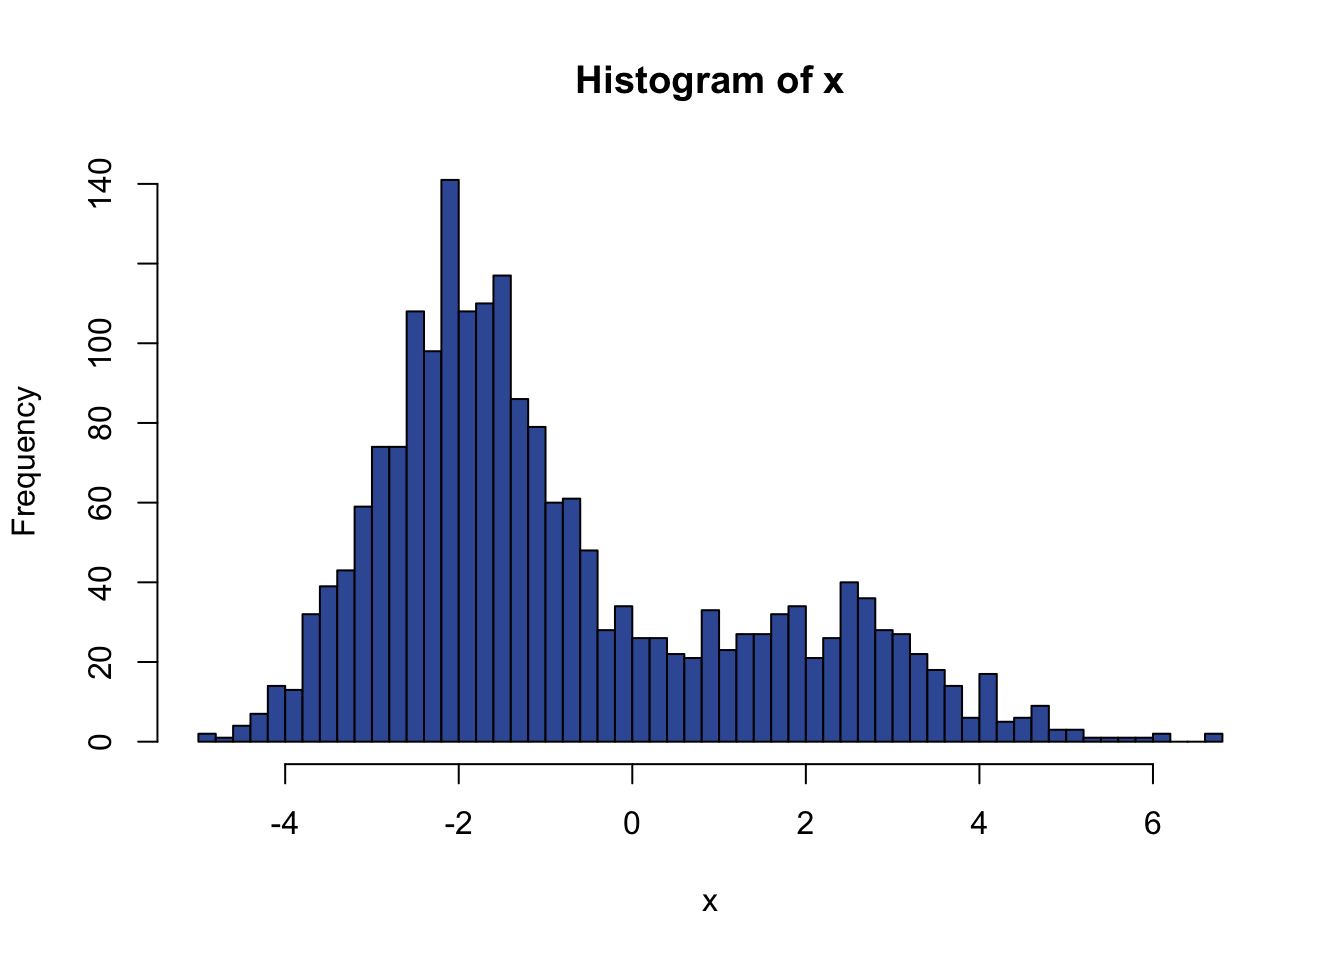
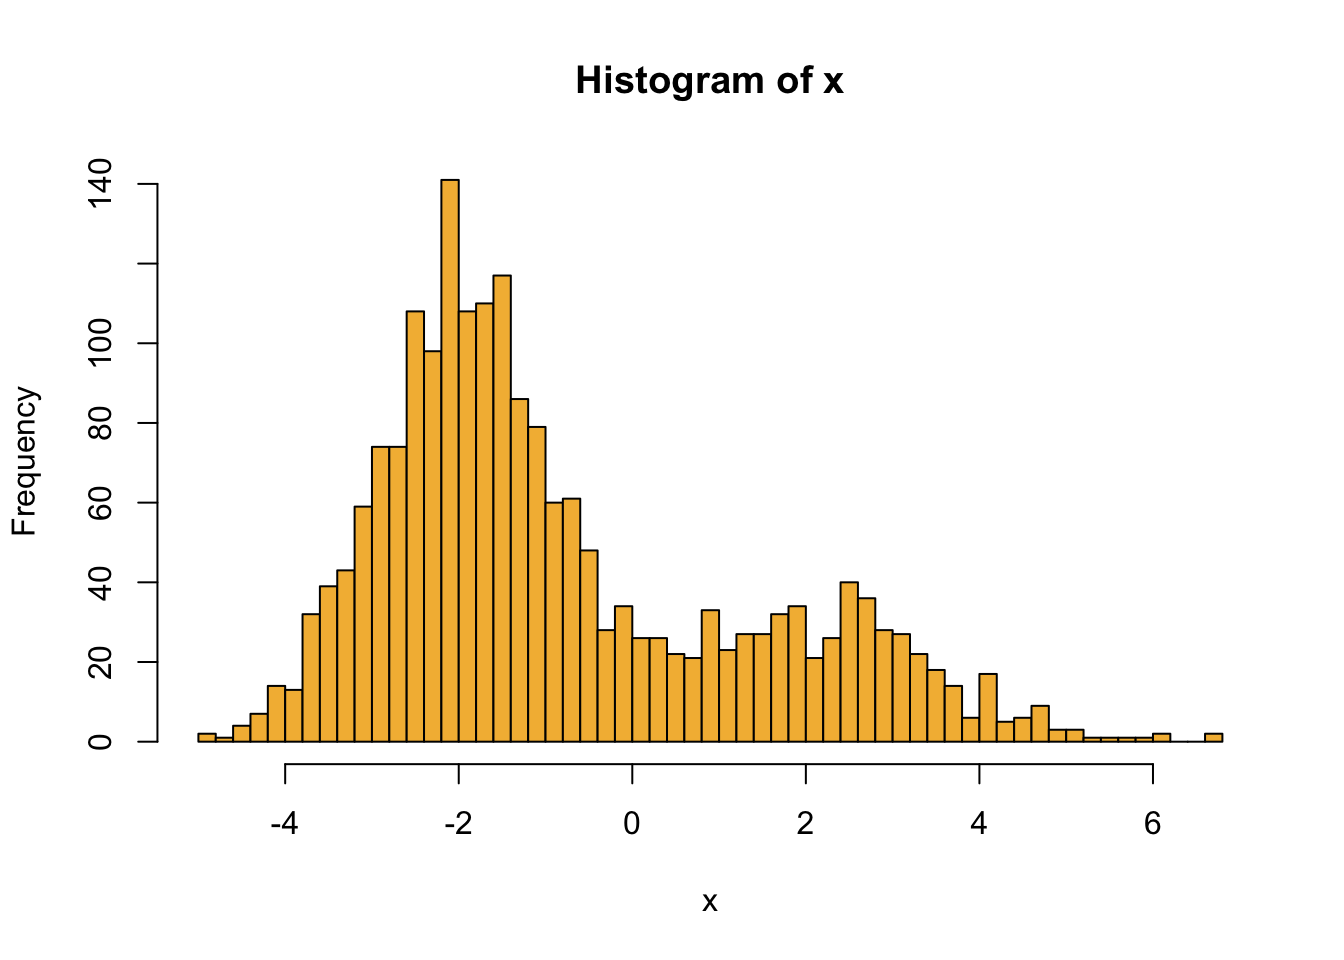
GMM plot update

Changed region(s): [[0.1562, 0.1875, 0.8125, 0.7812], [0.8438, 0.75, 0.875, 0.7812]]

diff --git a/docs/example-binomial-mixture-model.html b/docs/example-binomial-mixture-model.html
@@ -30,7 +30,7 @@
   
   
 <link rel="prev" href="introduction-to-em.html"/>
-<link rel="next" href="application-2-gaussian-mixture-model.html"/>
+<link rel="next" href="application-1-gaussian-mixture-model.html"/>
 <script src="libs/jquery-3.6.0/jquery-3.6.0.min.js"></script>
 <script src="https://cdn.jsdelivr.net/npm/fuse.js@6.4.6/dist/fuse.min.js"></script>
 <link href="libs/gitbook-2.6.7/css/style.css" rel="stylesheet" />
@@ -148,21 +148,21 @@ code span.wa { color: #60a0b0; font-weight: bold; font-style: italic; } /* Warni
 <ul>
 <li class="chapter" data-level="3.1" data-path="example-binomial-mixture-model.html"><a href="example-binomial-mixture-model.html#references-1"><i class="fa fa-check"></i><b>3.1</b> References:</a></li>
 </ul></li>
-<li class="chapter" data-level="4" data-path="application-2-gaussian-mixture-model.html"><a href="application-2-gaussian-mixture-model.html"><i class="fa fa-check"></i><b>4</b> Application 2: Gaussian Mixture Model</a>
+<li class="chapter" data-level="4" data-path="application-1-gaussian-mixture-model.html"><a href="application-1-gaussian-mixture-model.html"><i class="fa fa-check"></i><b>4</b> Application 1: Gaussian Mixture Model</a>
 <ul>
-<li class="chapter" data-level="4.1" data-path="application-2-gaussian-mixture-model.html"><a href="application-2-gaussian-mixture-model.html#why-using-gmms"><i class="fa fa-check"></i><b>4.1</b> Why using GMMs?</a></li>
-<li class="chapter" data-level="4.2" data-path="application-2-gaussian-mixture-model.html"><a href="application-2-gaussian-mixture-model.html#train-gmm-using-mle"><i class="fa fa-check"></i><b>4.2</b> Train GMM using MLE</a></li>
-<li class="chapter" data-level="4.3" data-path="application-2-gaussian-mixture-model.html"><a href="application-2-gaussian-mixture-model.html#train-simple-gmm-example-using-em"><i class="fa fa-check"></i><b>4.3</b> Train simple GMM example using EM</a>
+<li class="chapter" data-level="4.1" data-path="application-1-gaussian-mixture-model.html"><a href="application-1-gaussian-mixture-model.html#why-using-gmms"><i class="fa fa-check"></i><b>4.1</b> Why using GMMs?</a></li>
+<li class="chapter" data-level="4.2" data-path="application-1-gaussian-mixture-model.html"><a href="application-1-gaussian-mixture-model.html#train-gmm-using-mle"><i class="fa fa-check"></i><b>4.2</b> Train GMM using MLE</a></li>
+<li class="chapter" data-level="4.3" data-path="application-1-gaussian-mixture-model.html"><a href="application-1-gaussian-mixture-model.html#train-simple-gmm-example-using-em"><i class="fa fa-check"></i><b>4.3</b> Train simple GMM example using EM</a>
 <ul>
-<li class="chapter" data-level="4.3.1" data-path="application-2-gaussian-mixture-model.html"><a href="application-2-gaussian-mixture-model.html#set-up"><i class="fa fa-check"></i><b>4.3.1</b> Set up</a></li>
-<li class="chapter" data-level="4.3.2" data-path="application-2-gaussian-mixture-model.html"><a href="application-2-gaussian-mixture-model.html#em-steps-two-key-step-version"><i class="fa fa-check"></i><b>4.3.2</b> EM steps (Two-key-step version)</a></li>
+<li class="chapter" data-level="4.3.1" data-path="application-1-gaussian-mixture-model.html"><a href="application-1-gaussian-mixture-model.html#set-up"><i class="fa fa-check"></i><b>4.3.1</b> Set up</a></li>
+<li class="chapter" data-level="4.3.2" data-path="application-1-gaussian-mixture-model.html"><a href="application-1-gaussian-mixture-model.html#em-steps-two-key-step-version"><i class="fa fa-check"></i><b>4.3.2</b> EM steps (Two-key-step version)</a></li>
 </ul></li>
-<li class="chapter" data-level="4.4" data-path="application-2-gaussian-mixture-model.html"><a href="application-2-gaussian-mixture-model.html#r-code-example"><i class="fa fa-check"></i><b>4.4</b> R code example</a>
+<li class="chapter" data-level="4.4" data-path="application-1-gaussian-mixture-model.html"><a href="application-1-gaussian-mixture-model.html#r-code-example"><i class="fa fa-check"></i><b>4.4</b> R code example</a>
 <ul>
-<li class="chapter" data-level="4.4.1" data-path="application-2-gaussian-mixture-model.html"><a href="application-2-gaussian-mixture-model.html#one-dimension-2-components-example"><i class="fa fa-check"></i><b>4.4.1</b> One dimension, 2 components example</a></li>
-<li class="chapter" data-level="4.4.2" data-path="application-2-gaussian-mixture-model.html"><a href="application-2-gaussian-mixture-model.html#general-case"><i class="fa fa-check"></i><b>4.4.2</b> General case</a></li>
+<li class="chapter" data-level="4.4.1" data-path="application-1-gaussian-mixture-model.html"><a href="application-1-gaussian-mixture-model.html#simple-example-with-2-components-in-1-dimension"><i class="fa fa-check"></i><b>4.4.1</b> Simple example with 2 components in 1 dimension</a></li>
+<li class="chapter" data-level="4.4.2" data-path="application-1-gaussian-mixture-model.html"><a href="application-1-gaussian-mixture-model.html#general-case"><i class="fa fa-check"></i><b>4.4.2</b> General case</a></li>
 </ul></li>
-<li class="chapter" data-level="4.5" data-path="application-2-gaussian-mixture-model.html"><a href="application-2-gaussian-mixture-model.html#references-2"><i class="fa fa-check"></i><b>4.5</b> References:</a></li>
+<li class="chapter" data-level="4.5" data-path="application-1-gaussian-mixture-model.html"><a href="application-1-gaussian-mixture-model.html#references-2"><i class="fa fa-check"></i><b>4.5</b> References:</a></li>
 </ul></li>
 <li class="divider"></li>
 <li><a href="https://github.com/rstudio/bookdown" target="blank">Published with bookdown</a></li>
@@ -201,7 +201,7 @@ code span.wa { color: #60a0b0; font-weight: bold; font-style: italic; } /* Warni
         </div>
       </div>
 <a href="introduction-to-em.html" class="navigation navigation-prev " aria-label="Previous page"><i class="fa fa-angle-left"></i></a>
-<a href="application-2-gaussian-mixture-model.html" class="navigation navigation-next " aria-label="Next page"><i class="fa fa-angle-right"></i></a>
+<a href="application-1-gaussian-mixture-model.html" class="navigation navigation-next " aria-label="Next page"><i class="fa fa-angle-right"></i></a>
     </div>
   </div>
 <script src="libs/gitbook-2.6.7/js/app.min.js"></script>

diff --git a/docs/index.html b/docs/index.html
@@ -148,21 +148,21 @@ code span.wa { color: #60a0b0; font-weight: bold; font-style: italic; } /* Warni
 <ul>
 <li class="chapter" data-level="3.1" data-path="example-binomial-mixture-model.html"><a href="example-binomial-mixture-model.html#references-1"><i class="fa fa-check"></i><b>3.1</b> References:</a></li>
 </ul></li>
-<li class="chapter" data-level="4" data-path="application-2-gaussian-mixture-model.html"><a href="application-2-gaussian-mixture-model.html"><i class="fa fa-check"></i><b>4</b> Application 2: Gaussian Mixture Model</a>
+<li class="chapter" data-level="4" data-path="application-1-gaussian-mixture-model.html"><a href="application-1-gaussian-mixture-model.html"><i class="fa fa-check"></i><b>4</b> Application 1: Gaussian Mixture Model</a>
 <ul>
-<li class="chapter" data-level="4.1" data-path="application-2-gaussian-mixture-model.html"><a href="application-2-gaussian-mixture-model.html#why-using-gmms"><i class="fa fa-check"></i><b>4.1</b> Why using GMMs?</a></li>
-<li class="chapter" data-level="4.2" data-path="application-2-gaussian-mixture-model.html"><a href="application-2-gaussian-mixture-model.html#train-gmm-using-mle"><i class="fa fa-check"></i><b>4.2</b> Train GMM using MLE</a></li>
-<li class="chapter" data-level="4.3" data-path="application-2-gaussian-mixture-model.html"><a href="application-2-gaussian-mixture-model.html#train-simple-gmm-example-using-em"><i class="fa fa-check"></i><b>4.3</b> Train simple GMM example using EM</a>
+<li class="chapter" data-level="4.1" data-path="application-1-gaussian-mixture-model.html"><a href="application-1-gaussian-mixture-model.html#why-using-gmms"><i class="fa fa-check"></i><b>4.1</b> Why using GMMs?</a></li>
+<li class="chapter" data-level="4.2" data-path="application-1-gaussian-mixture-model.html"><a href="application-1-gaussian-mixture-model.html#train-gmm-using-mle"><i class="fa fa-check"></i><b>4.2</b> Train GMM using MLE</a></li>
+<li class="chapter" data-level="4.3" data-path="application-1-gaussian-mixture-model.html"><a href="application-1-gaussian-mixture-model.html#train-simple-gmm-example-using-em"><i class="fa fa-check"></i><b>4.3</b> Train simple GMM example using EM</a>
 <ul>
-<li class="chapter" data-level="4.3.1" data-path="application-2-gaussian-mixture-model.html"><a href="application-2-gaussian-mixture-model.html#set-up"><i class="fa fa-check"></i><b>4.3.1</b> Set up</a></li>
-<li class="chapter" data-level="4.3.2" data-path="application-2-gaussian-mixture-model.html"><a href="application-2-gaussian-mixture-model.html#em-steps-two-key-step-version"><i class="fa fa-check"></i><b>4.3.2</b> EM steps (Two-key-step version)</a></li>
+<li class="chapter" data-level="4.3.1" data-path="application-1-gaussian-mixture-model.html"><a href="application-1-gaussian-mixture-model.html#set-up"><i class="fa fa-check"></i><b>4.3.1</b> Set up</a></li>
+<li class="chapter" data-level="4.3.2" data-path="application-1-gaussian-mixture-model.html"><a href="application-1-gaussian-mixture-model.html#em-steps-two-key-step-version"><i class="fa fa-check"></i><b>4.3.2</b> EM steps (Two-key-step version)</a></li>
 </ul></li>
-<li class="chapter" data-level="4.4" data-path="application-2-gaussian-mixture-model.html"><a href="application-2-gaussian-mixture-model.html#r-code-example"><i class="fa fa-check"></i><b>4.4</b> R code example</a>
+<li class="chapter" data-level="4.4" data-path="application-1-gaussian-mixture-model.html"><a href="application-1-gaussian-mixture-model.html#r-code-example"><i class="fa fa-check"></i><b>4.4</b> R code example</a>
 <ul>
-<li class="chapter" data-level="4.4.1" data-path="application-2-gaussian-mixture-model.html"><a href="application-2-gaussian-mixture-model.html#one-dimension-2-components-example"><i class="fa fa-check"></i><b>4.4.1</b> One dimension, 2 components example</a></li>
-<li class="chapter" data-level="4.4.2" data-path="application-2-gaussian-mixture-model.html"><a href="application-2-gaussian-mixture-model.html#general-case"><i class="fa fa-check"></i><b>4.4.2</b> General case</a></li>
+<li class="chapter" data-level="4.4.1" data-path="application-1-gaussian-mixture-model.html"><a href="application-1-gaussian-mixture-model.html#simple-example-with-2-components-in-1-dimension"><i class="fa fa-check"></i><b>4.4.1</b> Simple example with 2 components in 1 dimension</a></li>
+<li class="chapter" data-level="4.4.2" data-path="application-1-gaussian-mixture-model.html"><a href="application-1-gaussian-mixture-model.html#general-case"><i class="fa fa-check"></i><b>4.4.2</b> General case</a></li>
 </ul></li>
-<li class="chapter" data-level="4.5" data-path="application-2-gaussian-mixture-model.html"><a href="application-2-gaussian-mixture-model.html#references-2"><i class="fa fa-check"></i><b>4.5</b> References:</a></li>
+<li class="chapter" data-level="4.5" data-path="application-1-gaussian-mixture-model.html"><a href="application-1-gaussian-mixture-model.html#references-2"><i class="fa fa-check"></i><b>4.5</b> References:</a></li>
 </ul></li>
 <li class="divider"></li>
 <li><a href="https://github.com/rstudio/bookdown" target="blank">Published with bookdown</a></li>

diff --git a/docs/introduction-to-em.html b/docs/introduction-to-em.html
@@ -148,21 +148,21 @@ code span.wa { color: #60a0b0; font-weight: bold; font-style: italic; } /* Warni
 <ul>
 <li class="chapter" data-level="3.1" data-path="example-binomial-mixture-model.html"><a href="example-binomial-mixture-model.html#references-1"><i class="fa fa-check"></i><b>3.1</b> References:</a></li>
 </ul></li>
-<li class="chapter" data-level="4" data-path="application-2-gaussian-mixture-model.html"><a href="application-2-gaussian-mixture-model.html"><i class="fa fa-check"></i><b>4</b> Application 2: Gaussian Mixture Model</a>
+<li class="chapter" data-level="4" data-path="application-1-gaussian-mixture-model.html"><a href="application-1-gaussian-mixture-model.html"><i class="fa fa-check"></i><b>4</b> Application 1: Gaussian Mixture Model</a>
 <ul>
-<li class="chapter" data-level="4.1" data-path="application-2-gaussian-mixture-model.html"><a href="application-2-gaussian-mixture-model.html#why-using-gmms"><i class="fa fa-check"></i><b>4.1</b> Why using GMMs?</a></li>
-<li class="chapter" data-level="4.2" data-path="application-2-gaussian-mixture-model.html"><a href="application-2-gaussian-mixture-model.html#train-gmm-using-mle"><i class="fa fa-check"></i><b>4.2</b> Train GMM using MLE</a></li>
-<li class="chapter" data-level="4.3" data-path="application-2-gaussian-mixture-model.html"><a href="application-2-gaussian-mixture-model.html#train-simple-gmm-example-using-em"><i class="fa fa-check"></i><b>4.3</b> Train simple GMM example using EM</a>
+<li class="chapter" data-level="4.1" data-path="application-1-gaussian-mixture-model.html"><a href="application-1-gaussian-mixture-model.html#why-using-gmms"><i class="fa fa-check"></i><b>4.1</b> Why using GMMs?</a></li>
+<li class="chapter" data-level="4.2" data-path="application-1-gaussian-mixture-model.html"><a href="application-1-gaussian-mixture-model.html#train-gmm-using-mle"><i class="fa fa-check"></i><b>4.2</b> Train GMM using MLE</a></li>
+<li class="chapter" data-level="4.3" data-path="application-1-gaussian-mixture-model.html"><a href="application-1-gaussian-mixture-model.html#train-simple-gmm-example-using-em"><i class="fa fa-check"></i><b>4.3</b> Train simple GMM example using EM</a>
 <ul>
-<li class="chapter" data-level="4.3.1" data-path="application-2-gaussian-mixture-model.html"><a href="application-2-gaussian-mixture-model.html#set-up"><i class="fa fa-check"></i><b>4.3.1</b> Set up</a></li>
-<li class="chapter" data-level="4.3.2" data-path="application-2-gaussian-mixture-model.html"><a href="application-2-gaussian-mixture-model.html#em-steps-two-key-step-version"><i class="fa fa-check"></i><b>4.3.2</b> EM steps (Two-key-step version)</a></li>
+<li class="chapter" data-level="4.3.1" data-path="application-1-gaussian-mixture-model.html"><a href="application-1-gaussian-mixture-model.html#set-up"><i class="fa fa-check"></i><b>4.3.1</b> Set up</a></li>
+<li class="chapter" data-level="4.3.2" data-path="application-1-gaussian-mixture-model.html"><a href="application-1-gaussian-mixture-model.html#em-steps-two-key-step-version"><i class="fa fa-check"></i><b>4.3.2</b> EM steps (Two-key-step version)</a></li>
 </ul></li>
-<li class="chapter" data-level="4.4" data-path="application-2-gaussian-mixture-model.html"><a href="application-2-gaussian-mixture-model.html#r-code-example"><i class="fa fa-check"></i><b>4.4</b> R code example</a>
+<li class="chapter" data-level="4.4" data-path="application-1-gaussian-mixture-model.html"><a href="application-1-gaussian-mixture-model.html#r-code-example"><i class="fa fa-check"></i><b>4.4</b> R code example</a>
 <ul>
-<li class="chapter" data-level="4.4.1" data-path="application-2-gaussian-mixture-model.html"><a href="application-2-gaussian-mixture-model.html#one-dimension-2-components-example"><i class="fa fa-check"></i><b>4.4.1</b> One dimension, 2 components example</a></li>
-<li class="chapter" data-level="4.4.2" data-path="application-2-gaussian-mixture-model.html"><a href="application-2-gaussian-mixture-model.html#general-case"><i class="fa fa-check"></i><b>4.4.2</b> General case</a></li>
+<li class="chapter" data-level="4.4.1" data-path="application-1-gaussian-mixture-model.html"><a href="application-1-gaussian-mixture-model.html#simple-example-with-2-components-in-1-dimension"><i class="fa fa-check"></i><b>4.4.1</b> Simple example with 2 components in 1 dimension</a></li>
+<li class="chapter" data-level="4.4.2" data-path="application-1-gaussian-mixture-model.html"><a href="application-1-gaussian-mixture-model.html#general-case"><i class="fa fa-check"></i><b>4.4.2</b> General case</a></li>
 </ul></li>
-<li class="chapter" data-level="4.5" data-path="application-2-gaussian-mixture-model.html"><a href="application-2-gaussian-mixture-model.html#references-2"><i class="fa fa-check"></i><b>4.5</b> References:</a></li>
+<li class="chapter" data-level="4.5" data-path="application-1-gaussian-mixture-model.html"><a href="application-1-gaussian-mixture-model.html#references-2"><i class="fa fa-check"></i><b>4.5</b> References:</a></li>
 </ul></li>
 <li class="divider"></li>
 <li><a href="https://github.com/rstudio/bookdown" target="blank">Published with bookdown</a></li>

diff --git a/docs/application-1-gaussian-mixture-model.html b/docs/application-1-gaussian-mixture-model.html
@@ -342,7 +342,7 @@ For the calculation below, we use weighed average, where the weights are the pro
 <span id="cb2-15"><a href="application-1-gaussian-mixture-model.html#cb2-15" aria-hidden="true" tabindex="-1"></a>x <span class="ot">=</span> <span class="fu">rnorm</span>(n, mu1, sig1)<span class="sc">*</span>z <span class="sc">+</span> <span class="fu">rnorm</span>(n, mu0, sig0)<span class="sc">*</span>(<span class="dv">1</span><span class="sc">-</span>z)</span>
 <span id="cb2-16"><a href="application-1-gaussian-mixture-model.html#cb2-16" aria-hidden="true" tabindex="-1"></a></span>
 <span id="cb2-17"><a href="application-1-gaussian-mixture-model.html#cb2-17" aria-hidden="true" tabindex="-1"></a><span class="co"># plot data histogram</span></span>
-<span id="cb2-18"><a href="application-1-gaussian-mixture-model.html#cb2-18" aria-hidden="true" tabindex="-1"></a><span class="fu">hist</span>(x, <span class="at">breaks =</span> <span class="dv">50</span>, <span class="at">col =</span> <span class="st">&quot;#3B5BA5&quot;</span>)</span></code></pre></div>
+<span id="cb2-18"><a href="application-1-gaussian-mixture-model.html#cb2-18" aria-hidden="true" tabindex="-1"></a><span class="fu">hist</span>(x, <span class="at">breaks =</span> <span class="dv">50</span>, <span class="at">col =</span> <span class="st">&quot;#F3B941&quot;</span>)</span></code></pre></div>
 <p><img src="bookdownproj_files/figure-html/unnamed-chunk-4-1.png" width="672" /></p>
 <div class="sourceCode" id="cb3"><pre class="sourceCode r"><code class="sourceCode r"><span id="cb3-1"><a href="application-1-gaussian-mixture-model.html#cb3-1" aria-hidden="true" tabindex="-1"></a><span class="co"># E step</span></span>
 <span id="cb3-2"><a href="application-1-gaussian-mixture-model.html#cb3-2" aria-hidden="true" tabindex="-1"></a>doE <span class="ot">&lt;-</span> <span class="cf">function</span>(theta){</span>
@@ -439,7 +439,8 @@ For the calculation below, we use weighed average, where the weights are the pro
 <span id="cb8-29"><a href="application-1-gaussian-mixture-model.html#cb8-29" aria-hidden="true" tabindex="-1"></a></span>
 <span id="cb8-30"><a href="application-1-gaussian-mixture-model.html#cb8-30" aria-hidden="true" tabindex="-1"></a><span class="fu">ggplot</span>(df, <span class="fu">aes</span>(<span class="at">x =</span> x[,<span class="dv">1</span>], <span class="at">y =</span> x[,<span class="dv">2</span>], <span class="at">col =</span> mu, <span class="at">fill =</span> mu)) <span class="sc">+</span> </span>
 <span id="cb8-31"><a href="application-1-gaussian-mixture-model.html#cb8-31" aria-hidden="true" tabindex="-1"></a>  <span class="fu">geom_point</span>() <span class="sc">+</span> </span>
-<span id="cb8-32"><a href="application-1-gaussian-mixture-model.html#cb8-32" aria-hidden="true" tabindex="-1"></a>  <span class="fu">scale_color_manual</span>(<span class="at">values =</span> <span class="fu">c</span>(<span class="st">&quot;#3B5BA5&quot;</span>, <span class="st">&quot;#E87A5D&quot;</span>, <span class="st">&quot;#F3B941&quot;</span>))</span></code></pre></div>
+<span id="cb8-32"><a href="application-1-gaussian-mixture-model.html#cb8-32" aria-hidden="true" tabindex="-1"></a>  <span class="fu">scale_color_manual</span>(<span class="at">values =</span> <span class="fu">c</span>(<span class="st">&quot;#3B5BA5&quot;</span>, <span class="st">&quot;#E87A5D&quot;</span>, <span class="st">&quot;#F3B941&quot;</span>)) <span class="sc">+</span> </span>
+<span id="cb8-33"><a href="application-1-gaussian-mixture-model.html#cb8-33" aria-hidden="true" tabindex="-1"></a>  <span class="fu">theme_minimal</span>()</span></code></pre></div>
 <p><img src="bookdownproj_files/figure-html/unnamed-chunk-7-1.png" width="672" /></p>
 <div class="sourceCode" id="cb9"><pre class="sourceCode r"><code class="sourceCode r"><span id="cb9-1"><a href="application-1-gaussian-mixture-model.html#cb9-1" aria-hidden="true" tabindex="-1"></a><span class="co"># E step </span></span>
 <span id="cb9-2"><a href="application-1-gaussian-mixture-model.html#cb9-2" aria-hidden="true" tabindex="-1"></a>doE <span class="ot">&lt;-</span> <span class="cf">function</span>(theta){</span>
